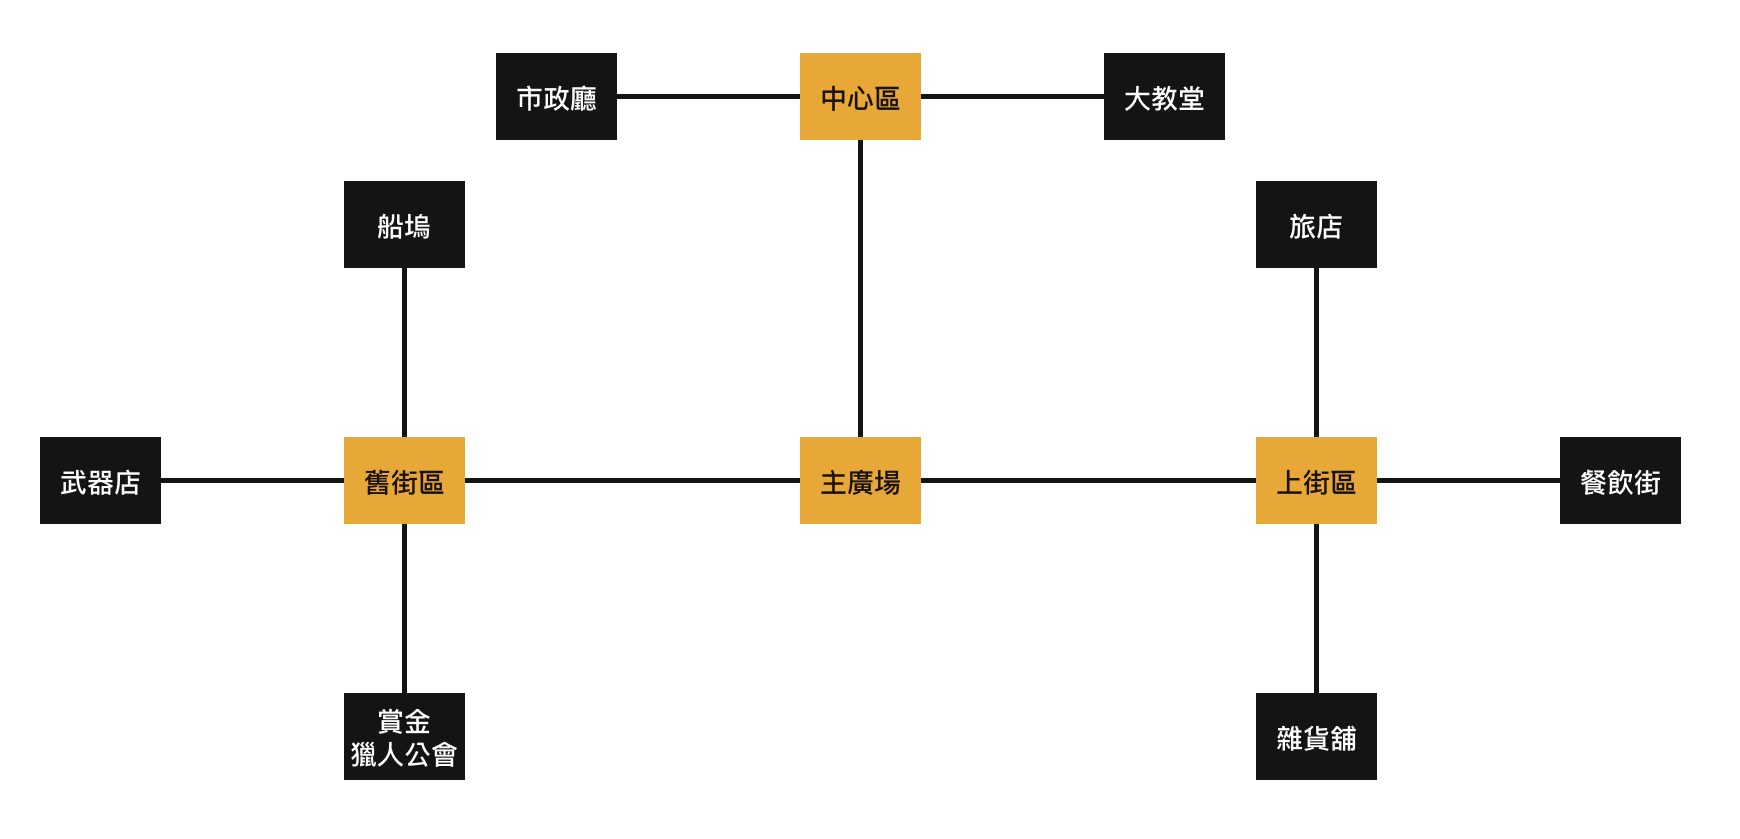
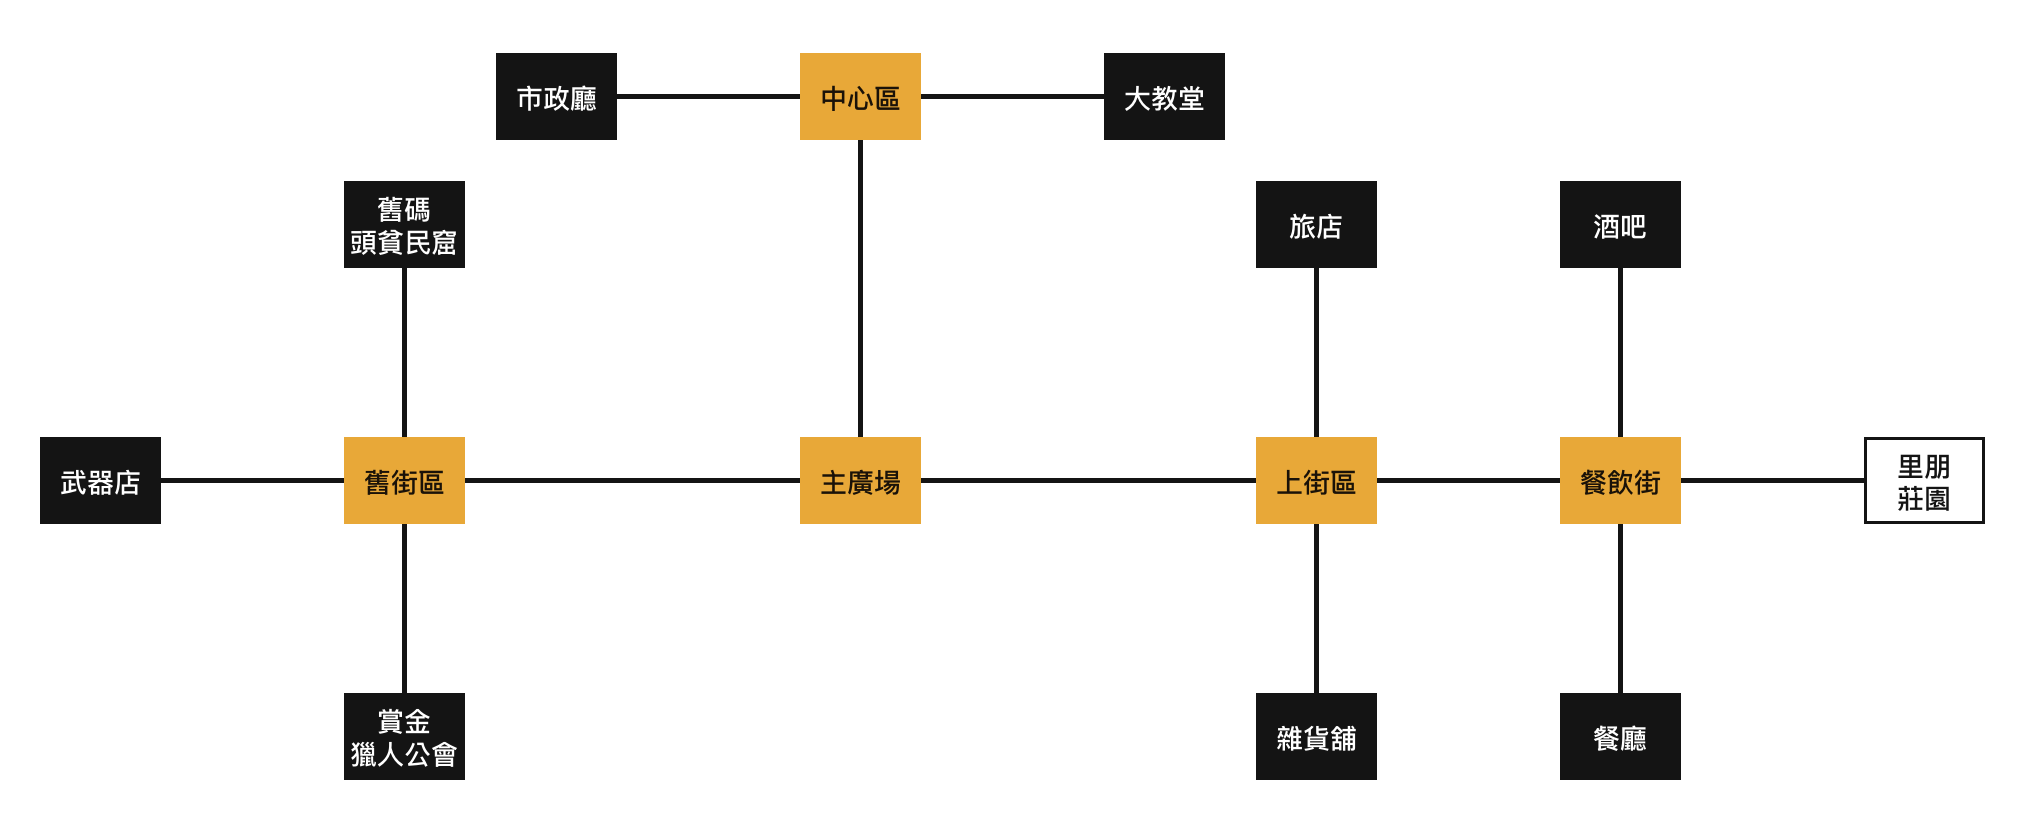
fix(聖索菲亞): 拆掉 dining 分店機制，酒吧／餐廳成為餐飲街上下兩格（餐飲街回歸街景）ver -1763

diff --git a/flight/index.html b/flight/index.html
@@ -3,7 +3,7 @@
 <head>
 <meta charset="utf-8">
 <meta name="viewport" content="width=device-width,initial-scale=1,maximum-scale=1,user-scalable=no,viewport-fit=cover">
-<script src="../orientation.js?v=1762"></script>
+<script src="../orientation.js?v=1763"></script>
 <title>TIVOT — 銀月大陸航行</title>
 <style>
   :root{ --gold:#c9a227; --parch:#d8cdb4; }
@@ -212,7 +212,7 @@
     100%{transform:translate(0,0);} }
   #fkerbDoor{position:absolute;left:0;top:0;transform:translateY(0);
     transition:transform 1s cubic-bezier(.22,.9,.25,1);
-    background-image:url('../resources/vfx/kerberos_door.webp?v=1762edab');
+    background-image:url('../resources/vfx/kerberos_door.webp?v=1763edab');
     background-repeat:no-repeat;background-size:100% 100%;}
   #fkerb.rise #fkerbDoor{transform:translateY(calc(var(--fkerb-rise,0px) * -1));}
   /* 楣與其餘零件：全部是門的子元素＝同一剛體，門上推它們跟著上去
@@ -235,8 +235,8 @@
       radial-gradient(circle at 50% 22%, rgba(0,0,0,.72) 40%, rgba(0,0,0,0) 78%);
     box-shadow:inset 0 3px 7px rgba(0,0,0,.85);}
   #fkerbGear .fkg-shine{position:absolute;inset:0;mix-blend-mode:screen;opacity:.8;
-    -webkit-mask-image:url("../resources/vfx/kerberos_gear.webp?v=1762edab");
-    mask-image:url("../resources/vfx/kerberos_gear.webp?v=1762edab");
+    -webkit-mask-image:url("../resources/vfx/kerberos_gear.webp?v=1763edab");
+    mask-image:url("../resources/vfx/kerberos_gear.webp?v=1763edab");
     -webkit-mask-size:100% 100%;mask-size:100% 100%;
     -webkit-mask-repeat:no-repeat;mask-repeat:no-repeat;
     background:linear-gradient(114deg,
@@ -256,8 +256,8 @@
     filter:drop-shadow(0 3px 7px rgba(0,0,0,.9)) drop-shadow(0 0 2px rgba(0,0,0,.8));}
   #fkerbPend .fkp-shine{position:absolute;inset:0;pointer-events:none;
     mix-blend-mode:screen;opacity:.85;
-    -webkit-mask-image:url("../resources/vfx/kerberos_pendant.webp?v=1762edab");
-    mask-image:url("../resources/vfx/kerberos_pendant.webp?v=1762edab");
+    -webkit-mask-image:url("../resources/vfx/kerberos_pendant.webp?v=1763edab");
+    mask-image:url("../resources/vfx/kerberos_pendant.webp?v=1763edab");
     -webkit-mask-size:100% 100%;mask-size:100% 100%;
     -webkit-mask-repeat:no-repeat;mask-repeat:no-repeat;
     background:linear-gradient(114deg,
@@ -620,25 +620,25 @@
        ⚠ 要有，否則交棒那一格齒輪會憑空冒出來（同吊墜的理由）。
        ⚠ 排在 `.fk-plate` 之前 ＝ 團徽之下、槍棺之上。 -->
   <div id="fkerbGear"><i class="fkg-well"></i>
-    <img src="../resources/vfx/kerberos_gear.webp?v=1762edab" alt=""><i class="fkg-shine"></i></div>
+    <img src="../resources/vfx/kerberos_gear.webp?v=1763edab" alt=""><i class="fkg-shine"></i></div>
   <div id="fkerbGearSm"><i class="fkg-well"></i>
-    <img src="../resources/vfx/kerberos_gear.webp?v=1762edab" alt=""></div>
-  <img class="fk-plate" src="../resources/vfx/kerberos_plate.webp?v=1762edab" alt="">
-  <img class="fk-arrow n" src="../resources/vfx/kerberos_arrow.webp?v=1762edab" alt="">
-  <img class="fk-arrow e" src="../resources/vfx/kerberos_arrow.webp?v=1762edab" alt="">
-  <img class="fk-arrow s" src="../resources/vfx/kerberos_arrow.webp?v=1762edab" alt="">
-  <img class="fk-arrow w" src="../resources/vfx/kerberos_arrow.webp?v=1762edab" alt="">
-  <img class="fk-rivet r10" src="../resources/vfx/kerberos_rivet.webp?v=1762edab" alt="">
-  <img class="fk-rivet r2"  src="../resources/vfx/kerberos_rivet.webp?v=1762edab" alt="">
-  <img class="fk-rivet r4"  src="../resources/vfx/kerberos_rivet.webp?v=1762edab" alt="">
-  <img class="fk-rivet r8"  src="../resources/vfx/kerberos_rivet.webp?v=1762edab" alt="">
+    <img src="../resources/vfx/kerberos_gear.webp?v=1763edab" alt=""></div>
+  <img class="fk-plate" src="../resources/vfx/kerberos_plate.webp?v=1763edab" alt="">
+  <img class="fk-arrow n" src="../resources/vfx/kerberos_arrow.webp?v=1763edab" alt="">
+  <img class="fk-arrow e" src="../resources/vfx/kerberos_arrow.webp?v=1763edab" alt="">
+  <img class="fk-arrow s" src="../resources/vfx/kerberos_arrow.webp?v=1763edab" alt="">
+  <img class="fk-arrow w" src="../resources/vfx/kerberos_arrow.webp?v=1763edab" alt="">
+  <img class="fk-rivet r10" src="../resources/vfx/kerberos_rivet.webp?v=1763edab" alt="">
+  <img class="fk-rivet r2"  src="../resources/vfx/kerberos_rivet.webp?v=1763edab" alt="">
+  <img class="fk-rivet r4"  src="../resources/vfx/kerberos_rivet.webp?v=1763edab" alt="">
+  <img class="fk-rivet r8"  src="../resources/vfx/kerberos_rivet.webp?v=1763edab" alt="">
   <!-- 吊墜（ver -412）：與主遊戲同一套（見 index.html 的 #kerbPend 與 style.css）。
        ⚠ 這一頁**必須也有** —— 遭遇時門是在這裡推上來的，交棒之後主遊戲那一半才接手；
          只有一邊掛吊墜的話，交棒那一格會憑空多出一個東西。 -->
   <div id="fkerbPend"><div class="fkp-swing"><div class="fkp-idle">
-    <img src="../resources/vfx/kerberos_pendant.webp?v=1762edab" alt=""><i class="fkp-shine"></i>
+    <img src="../resources/vfx/kerberos_pendant.webp?v=1763edab" alt=""><i class="fkp-shine"></i>
   </div></div></div>
-  <img id="fkerbTop" src="../resources/vfx/kerberos_top.webp?v=1762edab" alt="">
+  <img id="fkerbTop" src="../resources/vfx/kerberos_top.webp?v=1763edab" alt="">
 </div></div>
 <div id="boot">
   <div id="bRing">
@@ -659,11 +659,11 @@
   <div id="bMsg"><small id="bootMsg"></small></div>
 </div>
 
-<script src="settlement.js?v=1762"></script>
+<script src="settlement.js?v=1763"></script>
 <!-- 閒聊對話的**內容**獨立成一支：方便加台詞、加觸發條件而不必碰引擎。
      ⚠ 一般 <script>（非 module）→ TALKS / talkPeriod / talkPick 是全域，
        而且會在下面這段 inline 之前執行完，所以 inline 內可以直接用。 -->
-<script src="talks.js?v=1762"></script>
+<script src="talks.js?v=1763"></script>
 <script>
 /* ══════════════════════════════════════════════════════════════════════
    TIVOT — 銀月大陸航行（吃真實地圖版）
@@ -715,7 +715,7 @@ const COLOR_URL  = 'silvermoon_terrain.png'  + TERRAIN_V;
    以前是手寫的，於是從 -911 起就沒有人記得動它 —— 而 HUD 上的版本號正是 Ray
    在手機上確認「我現在跑的是哪一版」的唯一依據（鐵律 7：一個量一個計算點；
    ver -626：版本號不動就等於沒有版本號）。**不要手改。** */
-const FLIGHT_VER = 'ver -1762';
+const FLIGHT_VER = 'ver -1763';
 const MAP_SCALE  = 20;
 const INV_SCALE  = 1/MAP_SCALE;
 const PEAK_SCALE = 520;   // 高度圖 255 對應的世界高度（越大山越陡）

diff --git a/index.html b/index.html
@@ -16,7 +16,7 @@
 <link rel="apple-touch-icon" href="resources/background/tivot_emblem.png">
 <title>TIVOT</title>
 <!-- 全域鎖直向（真鎖 + 橫向擋板）；classic script，需在版面就緒前掛上 -->
-<script src="orientation.js?v=1762"></script>
+<script src="orientation.js?v=1763"></script>
 <!-- ══ 效能探針・計數層（ver -850，Ray：「沒有辦法寫一個偵測程式進去看是什麼
      東西在吃資源嗎？」）══ 要在**所有程式之前**掛（晚掛就數不到早開的計時器），
      所以住在這裡。只做登記（Set/計數，開銷趨近零）；讀取與呈現在 main.js 的
@@ -63,56 +63,56 @@
 <script type="importmap">
 {
   "imports": {
-    "./audio.js": "./audio.js?v=1762",
-    "./config.js": "./config.js?v=1762",
-    "./i18n.js": "./i18n.js?v=1762",
-    "./main.js": "./main.js?v=1762",
-    "./orientation.js": "./orientation.js?v=1762",
-    "./state.js": "./state.js?v=1762",
-    "./telemetry.js": "./telemetry.js?v=1762",
-    "./modules/combat.js": "./modules/combat.js?v=1762",
-    "./modules/defense.js": "./modules/defense.js?v=1762",
-    "./modules/enemy.js": "./modules/enemy.js?v=1762",
-    "./modules/gear.js": "./modules/gear.js?v=1762",
-    "./modules/groundShadow.js": "./modules/groundShadow.js?v=1762",
-    "./modules/haptics.js": "./modules/haptics.js?v=1762",
-    "./modules/inn.js": "./modules/inn.js?v=1762",
-    "./modules/inspector.js": "./modules/inspector.js?v=1762",
-    "./modules/loot.js": "./modules/loot.js?v=1762",
-    "./modules/partner.js": "./modules/partner.js?v=1762",
-    "./modules/saint.js": "./modules/saint.js?v=1762",
-    "./modules/sakura.js": "./modules/sakura.js?v=1762",
-    "./modules/save.js": "./modules/save.js?v=1762",
-    "./modules/settings.js": "./modules/settings.js?v=1762",
-    "./modules/story.js": "./modules/story.js?v=1762",
-    "./modules/tone.js": "./modules/tone.js?v=1762",
-    "./modules/town.js": "./modules/town.js?v=1762",
-    "./modules/transition.js": "./modules/transition.js?v=1762",
-    "./modules/tutorial.js": "./modules/tutorial.js?v=1762",
-    "./modules/weapon.js": "./modules/weapon.js?v=1762",
-    "./script/bg_index.js": "./script/bg_index.js?v=1762",
-    "./script/clock.js": "./script/clock.js?v=1762",
-    "./script/enemies.js": "./script/enemies.js?v=1762",
-    "./script/evaluation.js": "./script/evaluation.js?v=1762",
-    "./script/inventory.js": "./script/inventory.js?v=1762",
-    "./script/loadout.js": "./script/loadout.js?v=1762",
-    "./script/mainScript.js": "./script/mainScript.js?v=1762",
-    "./script/progress.js": "./script/progress.js?v=1762",
-    "./script/shopstock.js": "./script/shopstock.js?v=1762",
-    "./script/speakers.js": "./script/speakers.js?v=1762",
-    "./script/town.js": "./script/town.js?v=1762",
-    "./i18n/en.js": "./i18n/en.js?v=1762",
-    "./i18n/ja.js": "./i18n/ja.js?v=1762",
-    "./i18n/zh.js": "./i18n/zh.js?v=1762"
+    "./audio.js": "./audio.js?v=1763",
+    "./config.js": "./config.js?v=1763",
+    "./i18n.js": "./i18n.js?v=1763",
+    "./main.js": "./main.js?v=1763",
+    "./orientation.js": "./orientation.js?v=1763",
+    "./state.js": "./state.js?v=1763",
+    "./telemetry.js": "./telemetry.js?v=1763",
+    "./modules/combat.js": "./modules/combat.js?v=1763",
+    "./modules/defense.js": "./modules/defense.js?v=1763",
+    "./modules/enemy.js": "./modules/enemy.js?v=1763",
+    "./modules/gear.js": "./modules/gear.js?v=1763",
+    "./modules/groundShadow.js": "./modules/groundShadow.js?v=1763",
+    "./modules/haptics.js": "./modules/haptics.js?v=1763",
+    "./modules/inn.js": "./modules/inn.js?v=1763",
+    "./modules/inspector.js": "./modules/inspector.js?v=1763",
+    "./modules/loot.js": "./modules/loot.js?v=1763",
+    "./modules/partner.js": "./modules/partner.js?v=1763",
+    "./modules/saint.js": "./modules/saint.js?v=1763",
+    "./modules/sakura.js": "./modules/sakura.js?v=1763",
+    "./modules/save.js": "./modules/save.js?v=1763",
+    "./modules/settings.js": "./modules/settings.js?v=1763",
+    "./modules/story.js": "./modules/story.js?v=1763",
+    "./modules/tone.js": "./modules/tone.js?v=1763",
+    "./modules/town.js": "./modules/town.js?v=1763",
+    "./modules/transition.js": "./modules/transition.js?v=1763",
+    "./modules/tutorial.js": "./modules/tutorial.js?v=1763",
+    "./modules/weapon.js": "./modules/weapon.js?v=1763",
+    "./script/bg_index.js": "./script/bg_index.js?v=1763",
+    "./script/clock.js": "./script/clock.js?v=1763",
+    "./script/enemies.js": "./script/enemies.js?v=1763",
+    "./script/evaluation.js": "./script/evaluation.js?v=1763",
+    "./script/inventory.js": "./script/inventory.js?v=1763",
+    "./script/loadout.js": "./script/loadout.js?v=1763",
+    "./script/mainScript.js": "./script/mainScript.js?v=1763",
+    "./script/progress.js": "./script/progress.js?v=1763",
+    "./script/shopstock.js": "./script/shopstock.js?v=1763",
+    "./script/speakers.js": "./script/speakers.js?v=1763",
+    "./script/town.js": "./script/town.js?v=1763",
+    "./i18n/en.js": "./i18n/en.js?v=1763",
+    "./i18n/ja.js": "./i18n/ja.js?v=1763",
+    "./i18n/zh.js": "./i18n/zh.js?v=1763"
   }
 }
 </script>
 <!-- BUST:END -->
-<link rel="stylesheet" href="style.css?v=1762">
+<link rel="stylesheet" href="style.css?v=1763">
   <!-- 拾得道具／道具欄／商店／懸賞榜（ver -380 抽出，飛行頁共用同一份）。
        ⚠ `data-lootsheet` 是給 `modules/loot.js` 認的：它看到已經掛過就不再掛一次。
          飛行頁沒有這一行，由那支模組自己掛上去。 -->
-  <link rel="stylesheet" href="css/lootsheet.css?v=1762" data-lootsheet="1">
+  <link rel="stylesheet" href="css/lootsheet.css?v=1763" data-lootsheet="1">
 <!-- 主畫面 App（standalone）偵測：首繪前在 <html> 蓋 .standalone，
      供 CSS 修 iOS 26 版面視窗少算頂部安全區高度（底部露黑帶）的問題 -->
 <script>
@@ -720,6 +720,6 @@
      ⚠ src 是**按下去才給**的（lazy）：不然每次開機都要多載一整個飛行頁。 -->
 <iframe id="flightFrame" title="飛行"></iframe>
 
-<script type="module" src="main.js?v=1762"></script>
+<script type="module" src="main.js?v=1763"></script>
 </body>
 </html>

diff --git a/script/town.js b/script/town.js
@@ -4397,12 +4397,9 @@ export const TOWNS = {
 
     /* 大城市不上迷霧（ver -913）—— ⚠ **要明寫**：沒寫就是有霧。 */
     mist: 0,
-    /* 餐飲街（ver -1743 接美術 `_sofia_add_spec.md` §四②）：只交了**酒吧**（三差分，不寫 `noTime`）與**餐廳**
-       （一張，`noTime`）。咖啡廳／甜品店沒有 ⇒ 城裡沒有那一家就不換、照節點原本那一張 `sofia_bistro`（§6.5.4.2）。 */
-    dining: { node:'tavern', scenes:{
-      bar:        { bg:'sofia_bar' },
-      restaurant: { bg:'sofia_restaurant', noTime:true },
-    } },
+    /* ⚠ `dining`（分店機制）**已拆**（ver -1763，Ray：「聖索菲亞還留著舊的分店機制…現在已經沒有這個了，直接放拓樸就好」）——
+       沒有同行女伴時 `DINE.fallback='bar'` 會把整格換成酒吧室內，站在街上卻看到店裡。
+       同雪都 -1487／東泊 -1263：酒吧、餐廳各自是**走得進去的一格**（見 nodes 的 `bar`／`restaurant`）。 */
     /* ⚠⚠ **每一格都要 `noTime:true`**：這 12 張目前 0 張時段差分，不寫的話候選鏈
        會先去試 `_dawn/_day/_dusk/_night` 四個名字，**每一格白吃四個 404**。
        差分交件之後把這一批 `noTime` 一起拿掉。 */
@@ -4444,8 +4441,14 @@ export const TOWNS = {
       uptown:   { bg:'sofia_uptown',   name:'聖索菲亞　上街區', noTime:true,
         exits:{ left:'square', right:'tavern', up:'inn', down:'grocery' } },
       tavern:   { bg:'sofia_bistro',   name:'聖索菲亞　餐飲街', noTime:true,
-        /* `right:'@sofiaout'`（ver -1762，Ray：「接在餐飲街右邊」）＝往里朋莊園（入口：橄欖園道）。 */
-        exits:{ back:'uptown', right:'@sofiaout' } },
+        /* `right:'@sofiaout'`（ver -1762，Ray：「接在餐飲街右邊」）＝往里朋莊園（入口：橄欖園道）。
+           ver -1763：酒吧 `up`、餐廳 `down`（拆掉 `dining` 之後的兩個分支）；回上街區改明寫 `left`
+           （上街區是 `right` 進來的，兩端相反）—— 用 `back` 的話沒有來向時會預設掛「下」，跟餐廳撞在一起。 */
+        exits:{ up:'bar', left:'uptown', right:'@sofiaout', down:'restaurant' } },
+      /* 酒吧／餐廳（ver -1763，接美術 `_sofia_add_spec.md` §七）：室內圖。酒吧三差分（day/dusk/night，八點才開，
+         **不寫 `noTime`**）、餐廳只有 day（`noTime`，營業 `[8,17]` 見 §5）。 */
+      bar:        { bg:'sofia_bar',        name:'聖索菲亞　酒吧', exits:{ back:'tavern' } },
+      restaurant: { bg:'sofia_restaurant', name:'聖索菲亞　餐廳', noTime:true, exits:{ back:'tavern' } },
       grocery:  { bg:'sofia_grocerie', name:'聖索菲亞　雜貨舖', noTime:true,
         exits:{ back:'uptown' } },
       /* ⚠ 這一格**沒有** `inn:true`：旅店大廳與四扇伙伴門這一輪不做（立繪還沒交）。

diff --git a/modules/story.js b/modules/story.js
@@ -2551,7 +2551,7 @@ const KERB_DIR='resources/vfx/';
    cache-buster（§5：檔名沒變、內容變了，瀏覽器照樣拿舊的那一份，而症狀只是
    「看起來沒變」）。版本號由 `tools/bust.py` 同步，路徑只由 `kerbUrl()` 組（鐵律 8）——
    飛行頁那一半是另一個 document，各有一份，改一邊要改另一邊。 */
-const KERB_V='?v=1762';
+const KERB_V='?v=1763';
 const kerbUrl=n=>KERB_DIR+n+'.webp'+KERB_V;
 /* 幾何：由 tools/kerberos_cut.py 印出來的（門座標的比例）。**改圖要重跑腳本再貼回來。**
    ⚠ 箭與鉚釘給的是**中心點**與**未旋轉**的尺寸 —— CSS 的 rotate 是繞元素中心轉的，

diff --git a/config.js b/config.js
@@ -81,7 +81,7 @@ export const HITFX = {
  *     以為是快取卡住 —— 版本號不動就等於沒有版本號）。
  *  ⚠ 它同時是**暖開機戳記的鑰匙**（main.js 的 `WARM_BOOT`）：版本一變，
  *    上一版的戳記就失效 → 下一次開機重跑完整讀取。那正是改版後該有的行為。 */
-export const VERSION = 'ver 2026.09.22-1762';
+export const VERSION = 'ver 2026.09.22-1763';
 
 export const GAME_CONFIG = {
 

diff --git a/tools/map_layout.py b/tools/map_layout.py
@@ -203,9 +203,9 @@ POS = {
   # ── 聖索菲亞城（ver -1123）：拓樸＝帝都，所以版面直接沿用 capital 那一組 ──
   'santasofia': {
     'midtown':(5,3), 'cityhall':(3,3), 'church':(7,3),
-    'dock':(2,4),    'inn':(8,4),
+    'dock':(2,4),    'inn':(8,4),     'bar':(10,4),          # ver -1763：拆 dining，酒吧／餐廳成為格子
     'gunstore':(0,6),'oldtown':(2,6), 'square':(5,6), 'uptown':(8,6), 'tavern':(10,6),
-    'guild':(2,8),   'grocery':(8,8),
+    'guild':(2,8),   'grocery':(8,8), 'restaurant':(10,8),
   },
   # ── 卡耶爾山谷（ver -1671）：5 格・一條主線 ＋ 斷橋那一條死路，環 0 ────
   #   入口 → 風蝕迴廊 → 白骨之地，白骨往上到谷底祭場、往右到斷橋（死路）。
@@ -233,6 +233,7 @@ OUT_POS = {
   'shinier_ruins': {'@shinier_forest:ruins': (5,9, '遺蹟\n入口')},
   'shinier':       {'@shinier_forest':      (2,2, '夏爾\n森林')},
   'sofiaout':      {'@santasofia:tavern':   (4,9, '聖索菲亞\n餐飲街')},
+  'santasofia':    {'@sofiaout':            (12,6, '里朋\n莊園')},
 }
 
 def load(town):

diff --git a/HANDOFF.md b/HANDOFF.md
@@ -31,7 +31,7 @@
 > 13. **（09-26 下午，Mac）薇拉馮德港 `verafond` 拓樸 v2 Ray 定案**（「整個城式義大利風，當世最發達的富庶港都」「1900 年」）——
 >    程式端要做的：搬進 `script/town.js`（節點 id／出口照 `tools/map_verafond_draft.py` 的 NODES/EDGES，22 格、入城＝`harbor` 兼 `sail`）、`tools/map_layout.py` 補 `POS`、產生器回收。
 >    背景鑰匙與 `noTime` 規則寫在 `resources/background/_verafond_spec.md` §五（美術正在跑，室外 `vela_<格>` 四差分）；全是新檔，不用跳 `ASSET_VER`。
-> 14. **（09-26 晚，Mac）聖索菲亞餐飲街進去看到的是酒吧室內 —— 不是圖錯，是 `dining` 沒拆**（Ray：「索菲亞的餐飲街應該是街道而不是室內」）
+> 14. ✅ **-1763 已拆（小地圖補點仍待美術）** **（09-26 晚，Mac）聖索菲亞餐飲街進去看到的是酒吧室內 —— 不是圖錯，是 `dining` 沒拆**（Ray：「索菲亞的餐飲街應該是街道而不是室內」）
 >    `tavern` 的 `bg:'sofia_bistro'` 本來就是**街道圖**；但 `TOWNS.santasofia.dining.scenes` 還在，沒有同行女伴時 `DINE.fallback='bar'` ⇒ 整格換成 `sofia_bar`（室內）＝「站在街上卻看到店裡」。
 >    ⇒ **同雪都 -1487／東泊 -1263：拆掉 `dining`，改成三分支**（店走得進去、街道就是街道）。建議：
 >    `tavern.exits` 加 `up:'bar'`、`down:'restaurant'`（`right` 已經給 `@sofiaout`、`left` 是回頭路）；
@@ -49,7 +49,7 @@
 > ／三件等 Ray 決定的）。⚠ 那一份是 2026-09-22 晚寫的，做完請把它刪掉或標成已接。
 
 > ⚠⚠⚠ **換 session（2026-09-25，Mac，程式 session 收工）—— 開工前先讀這一塊**
-> · `origin/main` ＝ **`-1762`**（見下一段），工作樹只剩 Ray 自己的 untracked 檔，沒有欠 commit。
+> · `origin/main` ＝ **`-1763`**（見下一段），工作樹只剩 Ray 自己的 untracked 檔，沒有欠 commit。
 > · **這一輪 -1728～-1733 沒在瀏覽器驗到的（省用量，Ray 在 8200 看）**：
 >   ① 墓門開場的新順序（兵聲起→米夏 CI→terrify→行軍插圖→索那句→插圖收兵聲停），三版都改了
 >   ② 拉煙減量（機槍 3 團／霰彈 1 團）與去 blur 的視覺 ③ Stage 14（`enter:'flight'`＋`flight:{town:'ravnsdal'}`）落點
@@ -62,7 +62,18 @@
 > · 這台 Mac 上 Ray 的 untracked 檔清單見 -1724 那一段（沒推、換機器要自己帶）。
 > · 路線模擬器 `tools/routesim.mjs`（Mac：`cd tools && jsc -m routesim.mjs -- BAM2 40`）。
 
-# HANDOFF — 截至 `ver 2026.09.22-1762`
+# HANDOFF — 截至 `ver 2026.09.22-1763`
+
+**`-1763`：聖索菲亞拆掉 `dining`（分店機制），酒吧／餐廳直接放進拓樸**（Ray：「現在已經沒有這個了，直接放拓樸就好」；＝交接第 14 項）
+· 沒有女伴同行時 `DINE.fallback='bar'` 把整格換成酒吧室內 ⇒ 站在餐飲街卻看到店裡。拆掉之後：
+  `tavern`（街景 `sofia_bistro`）出口＝上 `bar`／左 `uptown`／右 `@sofiaout`／下 `restaurant`；
+  `bar`（`sofia_bar` 三差分，不寫 `noTime`）、`restaurant`（`noTime`），兩格都 `back:'tavern'`。
+  ⚠ 回上街區由 `back` 改成明寫 `left`：`back` 在沒有來向時預設掛「下」，會跟餐廳撞在一起（上街區是 `right` 進來的，兩端相反）。
+· `map_layout.py`：補 `bar`／`restaurant` 兩格與通往莊園的跨圖框 ⇒ 14 格・13 邊・0 環。
+· 實測（8123）：餐飲街是街景、四個方向對；進酒吧是 `sofia_bar_day` 室內、往下回餐飲街。
+· ⚠ 小地圖 `map_santasofia` 要補酒吧／餐廳兩個點（美術另開一單，第 14 項原文就有寫）。
+
+# （上一段）截至 `ver 2026.09.22-1762`
 
 **`-1762`：里朋莊園（`sofiaout`）接進城鎮資料，從聖索菲亞餐飲街往右走進去**（Ray：「索菲亞連往莊園中間的路應該已經好了，接在餐飲街右邊」）
 · `TOWNS.sofiaout`（名「里朋莊園」）：10 格，照 `map_sofiaout_draft.py` v3 原樣搬（草稿回收，版面進 `map_layout.py` 的 `POS`／`OUT_POS`）。
